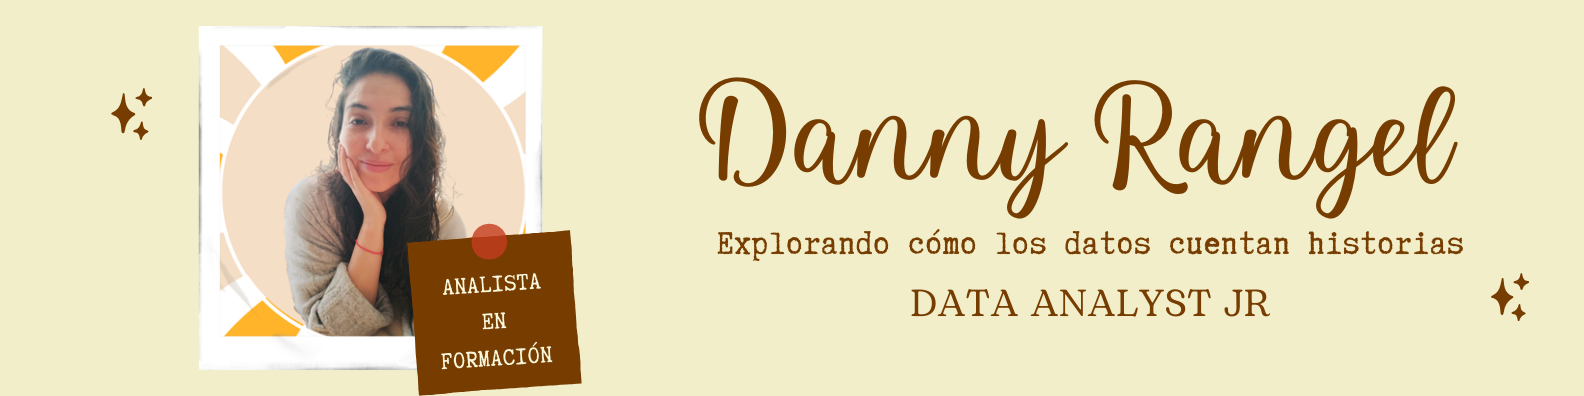
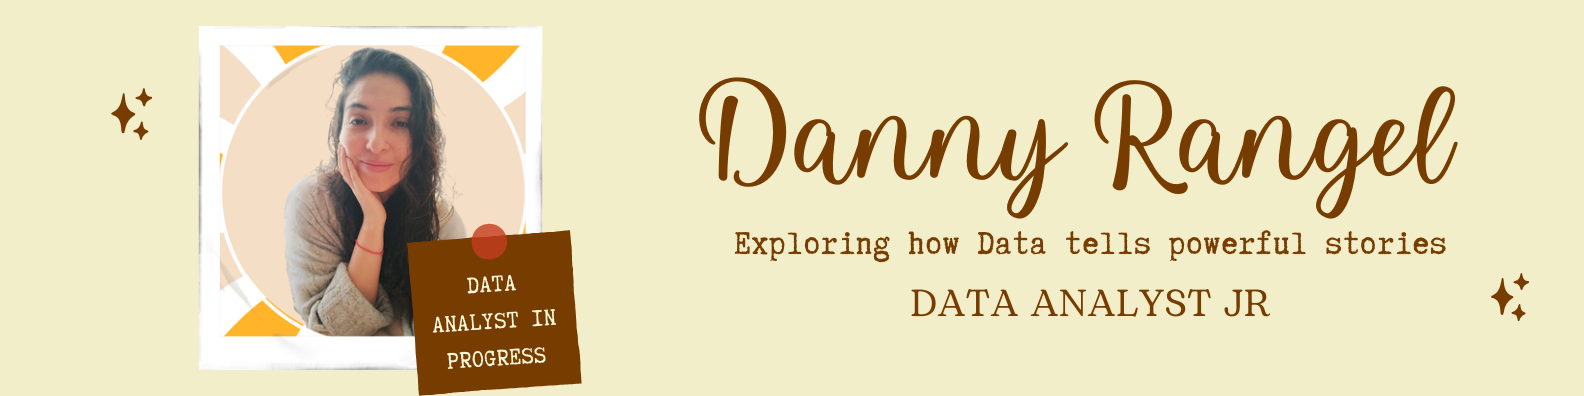
Github updates

diff --git a/README1.md b/README1.md
@@ -1,27 +1,27 @@
-# <img src="https://media.giphy.com/media/lGhBlBMIN2XsEteTN3/giphy.gif" width="100"/> Bienvenid@ al GitHub de Daniela Rangel
+# <img src="https://media.giphy.com/media/lGhBlBMIN2XsEteTN3/giphy.gif" width="100"/> 👋 Welcome to my GitHub! I’m Daniela Rangel, a Jr. Data Analyst in progress 🚀
 
-![Banner de Danny Rangel](Danny_rangel_youtube.png)
+![Banner de Danny Rangel](Banner_Youtube_Danny_English.png)
 
 [![YouTube](https://img.shields.io/badge/YouTube-%23FF0000.svg?style=for-the-badge&logo=YouTube&logoColor=white)](https://www.youtube.com/@rangeldcc_DA)
 [![LinkedIn](https://img.shields.io/badge/linkedin-%230077B5.svg?style=for-the-badge&logo=linkedin&logoColor=white)](https://www.linkedin.com/in/daniela-rangel-css)
 
 <br>
 
-## Sobre mi 😃
+## About Me 🙌
 <!--Intro start-->
 
-### 🎓 Analista de datos en formación
+### 📊 Data Analyst in Training 🚀
 
-### 🎥 CREADOR DE CONTENIDO PRINCIPIANTE compartiendo mi aprendizaje 📚 y proyectos del bootcamp de Data Analytics 🚀
+### 📹 BEGINNER CONTENT CREATOR sharing my learning 💡 and bootcamp projects in Data Analytics 🐍💻 
 
-### 💻 Experiencia previa en hospitalidad, atención al cliente y gestión de operaciones, ahora en transición hacia el mundo de los datos 📊
+### 🌍 Previous experience in hospitality, customer service, and operations management, now transitioning into the data world 📊
 
-### 📝 Roles en mi camino: gestor de operaciones... trainer... optimizador de procesos... estudiante apasionado de datos... y en un futuro, quién sabe ☺
+### 📝 Roles along my journey: operations manager ✈... trainer 🎯... process optimizer ⚙... passionate data learner 🔍... and in the future, who knows ✨
 <!--Intro end-->
 
 <br>
 
-## Tecnologias 💻
+## Tech Stack 💻
 ![Python](https://img.shields.io/badge/python-3670A0?style=for-the-badge&logo=python&logoColor=ffdd54)
 ![MySQL](https://img.shields.io/badge/mysql-%2300f.svg?style=for-the-badge&logo=mysql&logoColor=white)
 ![Matplotlib](https://img.shields.io/badge/Matplotlib-%23ffffff.svg?style=for-the-badge&logo=Matplotlib&logoColor=black)
@@ -46,7 +46,7 @@
 <br/>
 <br/>
 
-## Mis proyectos ✨
+## My proyects ✨
 
 ![Banner de Danny Rangel](Banner_Danny_Rangel.png)
 
